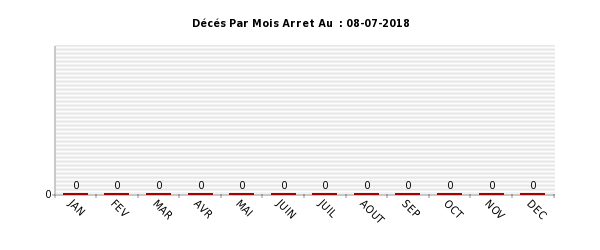
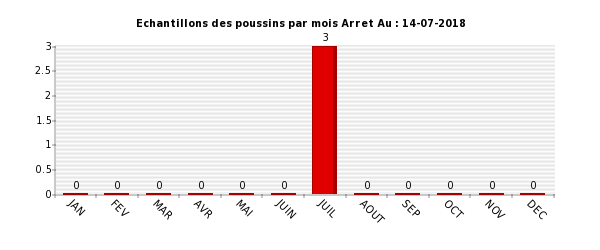
initialisation

diff --git a/public/js/mystyle.js b/public/js/mystyle.js
@@ -56,7 +56,7 @@ function close_popup(id) {
 // show_popup : show the popup fin 
 
 
-
+var ROOT ="avi";
 
 $(function() {    
     $('.delete').click(function(e) {
@@ -75,7 +75,7 @@ $(document).ready(function()
 			$.ajax
 			({
 				type: "POST",                           // Le type de ma requete
-				url: "/framework/public/js/ajaxwc.PHP", // L'url vers laquelle la requete sera envoyee
+				url: "/"+ROOT+"/public/js/ajaxwc.PHP", // L'url vers laquelle la requete sera envoyee
 				data: dataString,                       // Les donnees que l'on souhaite envoyer au serveur au format varaible ,JSON
 				cache: false,
 				success: function(html)                 // La reponse du serveur est contenu dans data  text xml json JSON (JavaScript Object Notation) 
@@ -96,7 +96,7 @@ $(document).ready(function()
 			$.ajax
 			({
 				type: "POST",                           // Le type de ma requete
-				url: "/framework/public/js/ajaxwc.PHP", // L'url vers laquelle la requete sera envoyee
+				url: "/"+ROOT+"/public/js/ajaxwc.PHP", // L'url vers laquelle la requete sera envoyee
 				data: dataString,                       // Les donnees que l'on souhaite envoyer au serveur au format varaible ,JSON
 				cache: false,
 				success: function(html)                 // La reponse du serveur est contenu dans data  text xml json JSON (JavaScript Object Notation) 
@@ -117,7 +117,7 @@ $(document).ready(function()
 			$.ajax
 			({
 				type: "POST",                           // Le type de ma requete
-				url: "/framework/public/js/ajaxwc.PHP", // L'url vers laquelle la requete sera envoyee
+				url: "/"+ROOT+"/public/js/ajaxwc.PHP", // L'url vers laquelle la requete sera envoyee
 				data: dataString,                       // Les donnees que l'on souhaite envoyer au serveur au format varaible ,JSON
 				cache: false,
 				success: function(html)                 // La reponse du serveur est contenu dans data  text xml json JSON (JavaScript Object Notation) 
@@ -138,7 +138,7 @@ $(document).ready(function()
 			$.ajax
 			({
 				type: "POST",                           // Le type de ma requete
-				url: "/framework/public/js/ajaxws.PHP", // L'url vers laquelle la requete sera envoyee
+				url: "/"+ROOT+"/public/js/ajaxws.PHP", // L'url vers laquelle la requete sera envoyee
 				data: dataString,                       // Les donnees que l'on souhaite envoyer au serveur au format varaible ,JSON
 				cache: false,
 				success: function(html)              // La reponse du serveur est contenu dans data  text xml json JSON (JavaScript Object Notation) 
@@ -152,29 +152,7 @@ $(document).ready(function()
 
 $(document).ready(function() {	
 });
-//jvs pour chapitre categorie de la cim10
-$(document).ready(function()
-{
-		$(".cim1").change(function()
-		{
-			var id=$(this).val();
-			var dataString = 'id='+ id;
 
-			$.ajax
-			({
-				type: "POST",                        // Le type de ma requete
-				url: "/deces/public/js/ajaxcim.php",                // L'url vers laquelle la requete sera envoyee
-				data: dataString,                    // Les donnees que l'on souhaite envoyer au serveur au format varaible ,JSON
-				cache: false,
-				success: function(html)              // La reponse du serveur est contenu dans data  text xml json JSON (JavaScript Object Notation) 
-						{
-						$(".cim2").html(html);   // On peut faire ce qu'on veut avec ici
-						} 
-					
-			});
-
-		});
-});
 
 /*Activates the Tabs*/
 function tabSwitch(new_tab, new_content) {    

diff --git a/fpdf/avi/avi.php b/fpdf/avi/avi.php
@@ -103,9 +103,11 @@ $query = "SELECT * from avi where id = $id ";
 $query1 = mysql_query($query);   
 $rs = mysql_fetch_assoc($query1);
 mysql_free_result($query1);
+
+
+
 $pdf->setxy(5,$pdf->gety()+10);$pdf->cell(25,5,'Date',1,0,'L',1,0);  $pdf->cell(25,5,$rs['date'],1,0,'C',0);  $pdf->cell(25,5,'Wilaya',1,0,'L',1,0);$pdf->cell(25,5,$rs['WILAYAD'],1,0,'C',0);$pdf->cell(25,5,'Commune',1,0,'L',1,0);$pdf->cell(25,5,$rs['COMMUNED'],1,0,'C',0);
 $pdf->setxy(5,$pdf->gety()+5); $pdf->cell(25,5,'Client',1,0,'L',1,0);$pdf->cell(25,5,$rs['avicli'],1,0,'C',0);$pdf->cell(25,5,'Cycle',1,0,'L',1,0);$pdf->cell(25,5,$rs['avicycl'],1,0,'C',0); $pdf->cell(25,5,'Batiment',1,0,'L',1,0);  $pdf->cell(25,5,$rs['avibtm'],1,0,'C',0);$pdf->cell(25,5,'Semaine',1,0,'L',1,0);$pdf->cell(25,5,$rs['avisem'],1,0,'C',0);
-
 $pdf->setxy(5,$pdf->gety()+10); $pdf->cell(25,5,$rs['avi0'],1,0,'C',0);$pdf->cell(25,5,$rs['avi20'],1,0,'C',0);$pdf->cell(25,5,$rs['avi40'],1,0,'C',0);$pdf->cell(25,5,$rs['avi60'],1,0,'C',0);$pdf->cell(25,5,$rs['avi80'],1,0,'C',0);
 $pdf->setxy(5,$pdf->gety()+5); $pdf->cell(25,5,$rs['avi1'],1,0,'C',0);$pdf->cell(25,5,$rs['avi21'],1,0,'C',0);$pdf->cell(25,5,$rs['avi41'],1,0,'C',0);$pdf->cell(25,5,$rs['avi61'],1,0,'C',0);$pdf->cell(25,5,$rs['avi81'],1,0,'C',0);
 $pdf->setxy(5,$pdf->gety()+5); $pdf->cell(25,5,$rs['avi2'],1,0,'C',0);$pdf->cell(25,5,$rs['avi22'],1,0,'C',0);$pdf->cell(25,5,$rs['avi42'],1,0,'C',0);$pdf->cell(25,5,$rs['avi62'],1,0,'C',0);$pdf->cell(25,5,$rs['avi82'],1,0,'C',0);
@@ -165,22 +167,25 @@ $pdf->setxy(150,$pdf->gety()+5); $pdf->cell(25,5,$data[19],1,0,'C',0);$pdf->cell
 
 
 $contd=count ($data);
-$pdf->setxy(5,$pdf->gety()+10); $pdf->cell(25,5,'count : ',1,0,'l',1,0); $pdf->cell(25,5,$contd,1,0,'C',0);  $pdf->cell(25,5,'sum: ',1,0,'l',1,0); $pdf->cell(25,5,array_sum ($data),1,0,'C',0);$pdf->cell(25,5,'min : ',1,0,'l',1,0); $pdf->cell(25,5,$data[0],1,0,'C',0);  $pdf->cell(25,5,'max : ',1,0,'l',1,0); $pdf->cell(25,5,$data[$contd - 1],1,0,'C',0); 
-$pdf->setxy(5,$pdf->gety()+5);  $pdf->cell(25,5,'Moyenne The ',1,0,'L',1,0); $pdf->cell(25,5,$tablec[$rs['avisem']],1,0,'C',0,0);  $pdf->cell(25,5,'Z= ',1,0,'L',1,0); $pdf->cell(25,5,round((round($pdf->mean($data,$type="arithmetic"),2)-$tablec[$rs['avisem']])/(round($pdf->sd($data),2)/10),2),1,0,'C',0,0); 
+$pdf->setxy(5,$pdf->gety()+10); $pdf->cell(25,5,'count : ',1,0,'l',1,0); $pdf->cell(25,5,$contd,1,0,'C',0);  $pdf->cell(25,5,'sum: ',1,0,'l',1,0); $pdf->cell(25,5,array_sum ($data),1,0,'C',0);
+$pdf->setxy(5,$pdf->gety()+5); $pdf->cell(25,5,'min : ',1,0,'l',1,0); $pdf->cell(25,5,$data[0],1,0,'C',0);  $pdf->cell(25,5,'max : ',1,0,'l',1,0); $pdf->cell(25,5,$data[$contd - 1],1,0,'C',0); $pdf->cell(25,5,'etendu : ',1,0,'l',1,0); $pdf->cell(25,5,$data[$contd - 1]-$data[0],1,0,'C',0);
+
+
+
+
 $m=round($pdf->mean($data,$type="arithmetic"));$m10=($m*10)/100;
-$pdf->setxy(5,$pdf->gety()+5);  $pdf->cell(25,5,'moyenne - 10%',1,0,'l',1,0);$pdf->cell(25,5,round($pdf->mean($data,$type="arithmetic")-$m10,2),1,0,'C',0);   $pdf->cell(25,5,'moyenne : ',1,0,'l',1,0); $pdf->cell(25,5,round($pdf->mean($data,$type="arithmetic"),2),1,0,'C',0,0);  $pdf->cell(25,5,'moyenne + 10%',1,0,'l',1,0);                    $pdf->cell(25,5,round($pdf->mean($data,$type="arithmetic")+$m10,2),1,0,'C',0,0);  
-$pdf->setxy(5,$pdf->gety()+5);  $pdf->cell(25,5,'IC95 - ',1,0,'l',1,0);      $pdf->cell(25,5,round($pdf->mean($data,$type="arithmetic")-(1.96*round($pdf->sd($data),2))/10,2),1,0,'C',0); $pdf->cell(25,5,'moyenne : ',1,0,'l',1,0); $pdf->cell(25,5,round($pdf->mean($data,$type="arithmetic"),2),1,0,'C',0,0);$pdf->cell(25,5,'IC95 +',1,0,'l',1,0); $pdf->cell(25,5,round($pdf->mean($data,$type="arithmetic")+(1.96*round($pdf->sd($data),2))/10,2),1,0,'C',0,0);  
+$pdf->setxy(5,$pdf->gety()+5); $pdf->cell(25,5,'moyenne : ',1,0,'l',1,0); $pdf->cell(25,5,round($pdf->mean($data,$type="arithmetic"),2),1,0,'C',0,0);  $pdf->cell(25,5,'moyenne - 10%',1,0,'l',1,0);$pdf->cell(25,5,round($pdf->mean($data,$type="arithmetic")-$m10,2),1,0,'C',0);$pdf->cell(25,5,'moyenne + 10%',1,0,'l',1,0);                    $pdf->cell(25,5,round($pdf->mean($data,$type="arithmetic")+$m10,2),1,0,'C',0,0);  
 
 $pdf->setxy(5,$pdf->gety()+5);  $pdf->cell(25,5,'q1 : ',1,0,'l',1,0);        $pdf->cell(25,5,$data[round($contd / 4)],1,0,'C',0,0);                           $pdf->cell(25,5,'median : ',1,0,'l',1,0);  $pdf->cell(25,5,$pdf->median($data),1,0,'C',0,0);                            $pdf->cell(25,5,'q3 : ',1,0,'l',1,0);        $pdf->cell(25,5,$data[round($contd * 3 / 4)],1,0,'C',0);    
 $pdf->SetXY(5,$pdf->GetY()+5);  $pdf->cell(25,5,'var (n-1)',1,0,'L',1,0);    $pdf->cell(25,5,round($pdf->variance($data),2),1,0,'C',0,0);                     $pdf->cell(25,5,'std (n-1)',1,0,'L',1,0);  $pdf->cell(25,5,round($pdf->sd($data),2),1,0,'C',0,0);
-$pdf->SetXY(5,$pdf->GetY()+5);  $pdf->cell(25,5,'skew',1,0,'L',1,0);           $pdf->cell(25,5,round($pdf->skew($data),2),1,0,'C',0,0);$pdf->cell(25,5,'kurt',1,0,'L',1,0);           $pdf->cell(25,5,round($pdf->kurt($data),2),1,0,'C',0,0);
+$pdf->SetXY(5,$pdf->GetY()+5);  $pdf->cell(25,5,'skew',1,0,'L',1,0);         $pdf->cell(25,5,round($pdf->skew($data),2),1,0,'C',0,0);$pdf->cell(25,5,'kurt',1,0,'L',1,0);           $pdf->cell(25,5,round($pdf->kurt($data),2),1,0,'C',0,0);
 
 
 
 $pdf->SetXY(5,$pdf->GetY()+5);  $pdf->cell(25,5,'cv',1,0,'L',1,0);           $pdf->cell(25,5,round($pdf->cv($data),2),1,0,'C',0,0);
                            
 
-  
+
 		
 
 $sup = round($pdf->mean($data,$type="arithmetic")+$m10,2);
@@ -206,10 +211,12 @@ $continf=count ($filteredArrayinf);
 
 // $pdf->SetXY(5,$pdf->GetY()+10);    $pdf->cell(20,5,$continf,1,0,'C',1,0);
 // $pdf->SetXY(5,$pdf->GetY()+10);    $pdf->cell(20,5,$contsup,1,0,'C',1,0);$pdf->SetXY(5,$pdf->GetY()+10);
-$pdf->SetXY(5,$pdf->GetY()+5);$pdf->cell(25,5,'Homgeneite',1,0,'L',1,0); $pdf->cell(25,5,(100-($contsup+$continf)).'%',1,0,'C',0,0);
+$pdf->cell(25,5,'Homgeneite',1,0,'L',1,0); $pdf->cell(25,5,(100-($contsup+$continf)).'%',1,0,'C',0,0);
 
 
 
+$pdf->setxy(5,$pdf->gety()+5);  $pdf->cell(25,5,'Moyenne The ',1,0,'L',1,0); $pdf->cell(25,5,$tablec[$rs['avisem']],1,0,'C',0,0);  $pdf->cell(25,5,'Z= ',1,0,'L',1,0); $pdf->cell(25,5,round((round($pdf->mean($data,$type="arithmetic"),2)-$tablec[$rs['avisem']])/(round($pdf->sd($data),2)/10),2),1,0,'C',0,0); 
+$pdf->setxy(5,$pdf->gety()+5);  $pdf->cell(25,5,'IC95 M - ',1,0,'l',1,0);      $pdf->cell(25,5,round($pdf->mean($data,$type="arithmetic")-(1.96*round($pdf->sd($data),2))/10,2),1,0,'C',0); $pdf->cell(25,5,'moyenne : ',1,0,'l',1,0); $pdf->cell(25,5,round($pdf->mean($data,$type="arithmetic"),2),1,0,'C',0,0);$pdf->cell(25,5,'IC95 M +',1,0,'l',1,0); $pdf->cell(25,5,round($pdf->mean($data,$type="arithmetic")+(1.96*round($pdf->sd($data),2))/10,2),1,0,'C',0,0);  
 
 
 
@@ -257,7 +264,7 @@ $pdf->SetXY(5,$pdf->GetY()+5);  $pdf->cell(20,5,'IC95 m ',1,0,'L',1,0);  $pdf->c
 
 
 $pdf->bar10($x=110,$y=120,$datab[0],$datab[1],$datab[2],$datab[3],$datab[4],$datab[5],$datab[6],$datab[7],$datab[8],$datab[9],$datar[0],$datar[1],$datar[2],$datar[3],$datar[4],$datar[5],$datar[6],$datar[7],$datar[8],$datar[9],$datarcc[0],$datarcc[1],$datarcc[2],$datarcc[3],$datarcc[4],$datarcc[5],$datarcc[6],$datarcc[7],$datarcc[8],$datarcc[9],$titre="CALCUL POIDS ET L'HOMOGENEITE");
-// $pdf->boxplotgv($x=260,$y=125,'',$data);
+$pdf->boxplotgv($x=260,$y=125,'',$data);
 
 // $pdf->SetFillColor(255, 0, 0);
 // $b=50;

diff --git a/libs/html.php b/libs/html.php
@@ -18,9 +18,9 @@ class HTML  {
 	echo '<a href="https://www.facebook.com/"><img src="'.URL.'public/images/fb.png" width="16" height="16" border="0" alt=""/></a>';echo '&nbsp;';
 	echo '<a href="https://twitter.com/"><img src="'.URL.'public/images/tw.png" width="16" height="16" border="0" alt=""/></a>';echo '&nbsp;';
 	echo '<a href="https://www.youtube.com/"><img src="'.URL.'public/images/yt.png" width="16" height="16" border="0" alt=""/></a>';echo '&nbsp;';
-	echo '<a href="http://www.sante.gov.dz/"><img src="'.URL.'public/images/lb.jpg" width="16" height="16" border="0" alt=""/></a>';echo '&nbsp;';
-	echo '<a href="http://www.dsp-djelfa.dz/index.php/ar/"><img src="'.URL.'public/images/sante.jpg" width="16" height="16" border="0" alt=""/></a>';echo '&nbsp;';
-	echo '<a href="http://www.ans.dz/index.php/fr/"><img src="'.URL.'public/images/gs.jpg" width="16" height="16" border="0" alt=""/></a>';echo '&nbsp;';
+	//echo '<a href="http://www.sante.gov.dz/"><img src="'.URL.'public/images/lb.jpg" width="16" height="16" border="0" alt=""/></a>';echo '&nbsp;';
+	//echo '<a href="http://www.dsp-djelfa.dz/index.php/ar/"><img src="'.URL.'public/images/sante.jpg" width="16" height="16" border="0" alt=""/></a>';echo '&nbsp;';
+	//echo '<a href="http://www.ans.dz/index.php/fr/"><img src="'.URL.'public/images/gs.jpg" width="16" height="16" border="0" alt=""/></a>';echo '&nbsp;';
 	}
 	
 	
@@ -472,7 +472,7 @@ class HTML  {
 	function valeurmois($SRS,$TBL,$COLONE1,$COLONE2,$DATEJOUR1,$DATEJOUR2,$VALEUR2,$STR) 
 	{
 	$this->mysqlconnect();
-	$sql = " select * from $TBL  where $COLONE1 BETWEEN '$DATEJOUR1' AND '$DATEJOUR2' and  STRUCTURED $STR ";
+	$sql = " select * from $TBL  where $COLONE1 BETWEEN '$DATEJOUR1' AND '$DATEJOUR2' ";
 	$requete = @mysql_query($sql) or die($sql."<br>".mysql_error());
 	$OP=mysql_num_rows($requete);
 	mysql_free_result($requete);

diff --git a/views/dashboard/index.php b/views/dashboard/index.php
@@ -94,6 +94,7 @@ echo "<button id=\"Cleari\"  onclick=\"document.location='".URL.$data['cb2']."/"
 		{
 		echo '<div class="contentl">';
 		// HTML::multigraphe(30,340,'Naissance Par annee et sexe  Arret Au : ','avi','date','SEX','M','F','='.Session::get('structure')) ;
+		HTML::graphemois(30,340,'Echantillons des poussins par mois Arret Au : ','','avi','date','',date('Y'),'','='.Session::get('structure')); 
 		echo "</div>";
 		echo'<div class="content"><img id="image" src="'.URL.'public/images/dashbord.jpg" ></div>';
 		echo'<div class="contentr"><img id="image" src="'.URL.'public/images/'.logod.'"></div>';

diff --git a/views/dashboard/nouveau.php b/views/dashboard/nouveau.php
@@ -119,7 +119,7 @@ HTML::tabsavi($data);
 </form> 			
 </div>
 <div class="contenth"><img id="image" src="<?php echo URL;?>public/images/demographie1.jpg" ></div>	
-<div class="content"><img id="image" src="<?php echo URL;?>public/images/djelfa.png" ></div>
+<div class="content"><img  id="image" src="<?php echo URL;?>public/images/djelfa.png" ></div>
 <div class="contentb"><img id="image" src="<?php echo URL;?>public/images/demographie1.jpg" ></div>
 <div class="contentr"><img id="image" src="<?php echo URL;?>public/images/possin.jpg"></div>	
 <div class="scontentr1"><?php echo "";echo dsp; echo "";?></div>		

diff --git a/views/login/index.php b/views/login/index.php
@@ -23,8 +23,8 @@ Gérer Echantillon des poussins representative du lot (poids a jeun en grammes)
 <?php 
 echo "<p>";
 echo "<select  name=\"demgraphie\">";
-echo '<option value="1">Deces</option>';
-echo '<option value="2">Naissance</option>';
+echo '<option value="1">AVI</option>';
+echo '<option value="2">AVI</option>';
 echo "</select>";
 echo "</p> ";
 ?>
